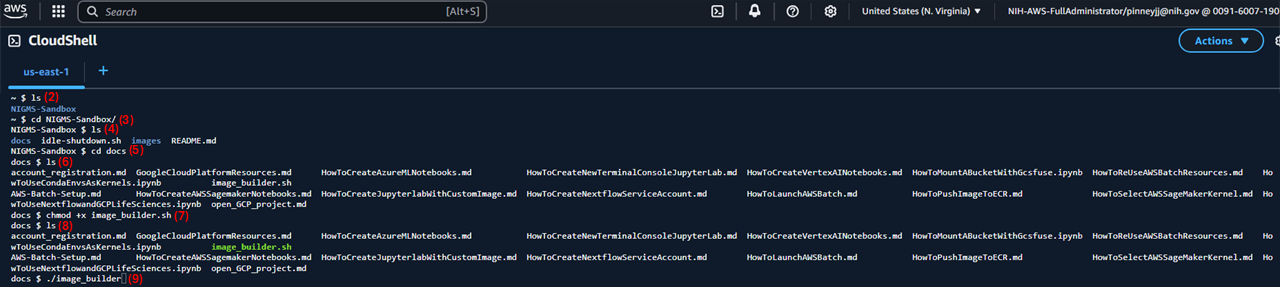
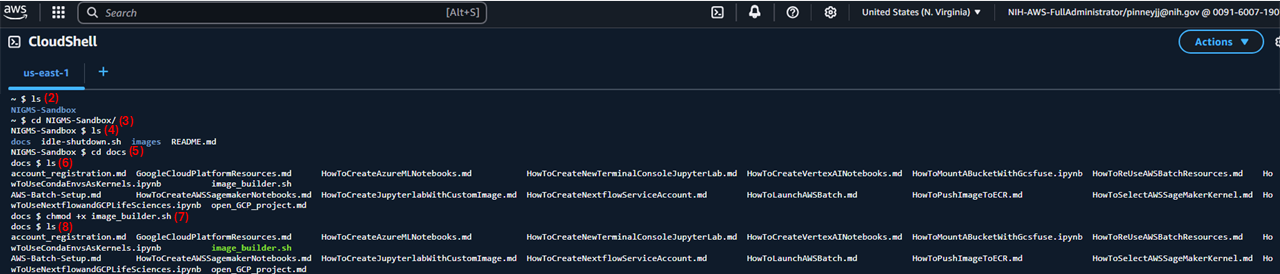
update shellscript instructions

Changed region(s): [[0.0, 0.2336, 1.0, 1.0], [0.0, 0.0, 1.0, 0.2044]]

diff --git a/docs/SageMakerNotebook&StudioSetup.md b/docs/SageMakerNotebook&StudioSetup.md
@@ -117,19 +117,18 @@ The steps outlined below guide you through how to push a public docker image to 
       </p>
 7. Next, run the script using the command `./image_builder.sh` **(9)**
 8. When prompted enter the public image URI provided in your module's README file (e.g., `public.ecr.aws/v8e3m3v4/sagemaker/umaine-sagemaker`) **(10)**
-9. The next prompt asks for a `.pem` key name, enter your key name of choice (e.g., `test-key`) **(11)**
       <p> <align="center"/>
           <img src="../images/images_for_ecr_shellscript/step_4.png" width="1000" />
       </p>
-10. Once the script completes navigate to your account's ECR console. 
+9. Once the script completes navigate to your account's ECR console. 
       <p> <align="center"/>
           <img src="../images/images_for_ecr_shellscript/step_5.png" width="1000" />
       </p>
-11. Under private repository, click on the repository named `nigms-images`
+10. Under private repository, click on the repository named `nigms-images`
       <p> <align="center"/>
           <img src="../images/images_for_ecr_shellscript/step_6.png" width="1000" />
       </p>
-12. After ~15 minutes the container should show up. This can now be used as a custom image in Jupyterlab as outlined in [PART 2: Setup a JupyterLab with a Custom Docker Image](#PART-2:-Setup-a-JupyterLab-with-a-Custom-Docker-Image)
+11. After ~15 minutes the container should show up. This can now be used as a custom image in Jupyterlab as outlined in [PART 2: Setup a JupyterLab with a Custom Docker Image](#PART-2:-Setup-a-JupyterLab-with-a-Custom-Docker-Image)
       <p> <align="center"/>
           <img src="../images/images_for_ecr_shellscript/step_7.png" width="1000" />
       </p>
